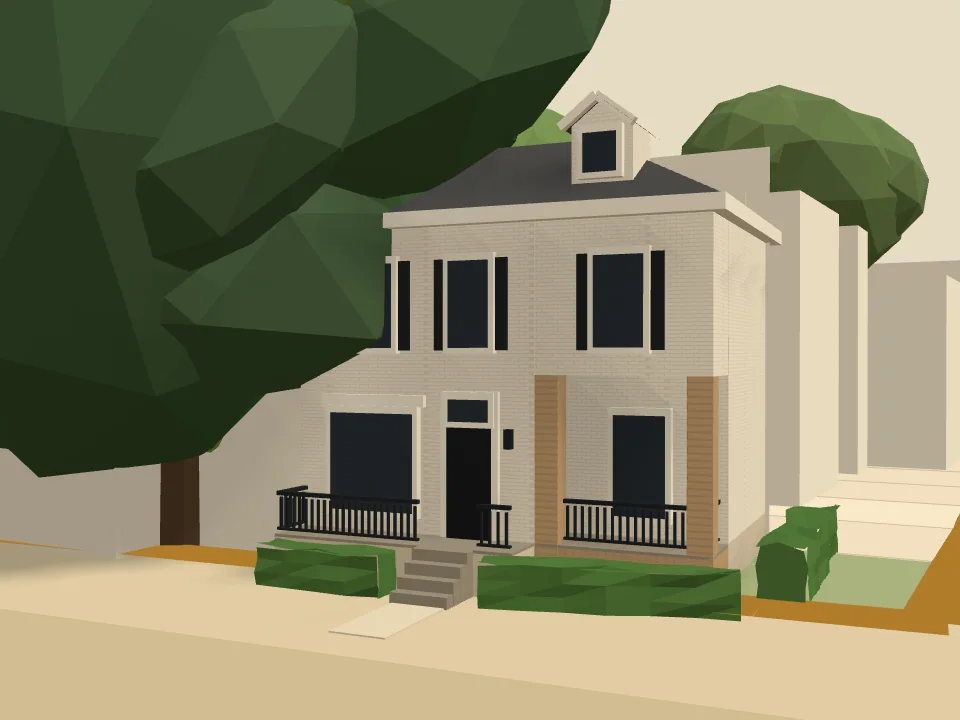
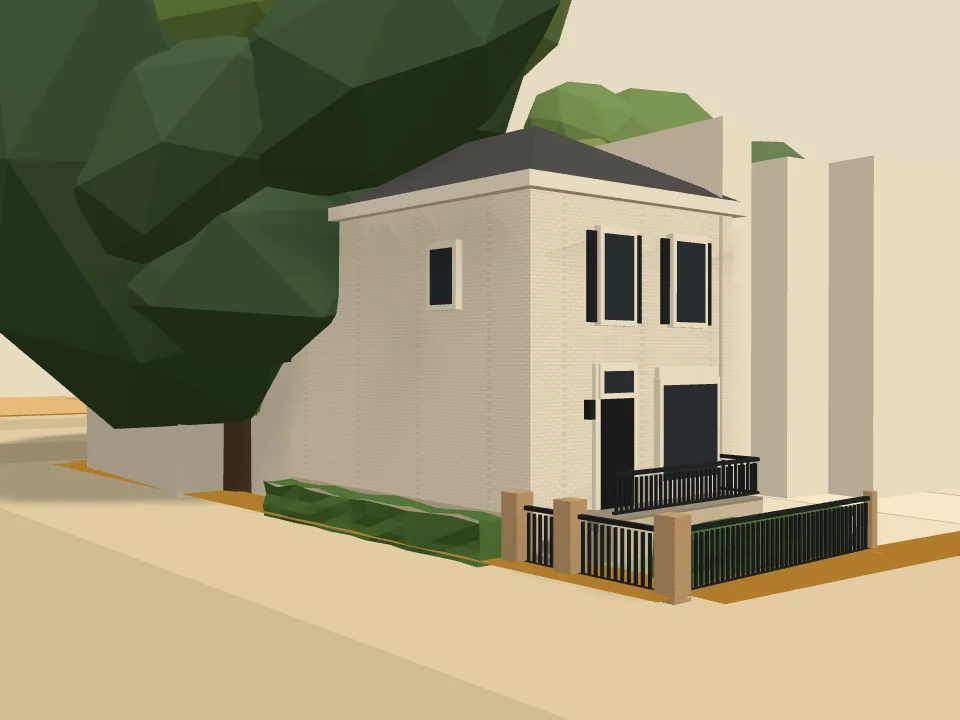
1012 Colley: the blank wall on Colley, and what it would take to open it
Jason, who knows the building: the row doesn't face Colley. 1014 on the
corner is entered from Graydon; 1012's door faces south, along Colley,
off a fenced side yard. "That entire side of the building - the valuable
street frontage - is totally blank. Not even many windows." He chose to
show the wall opened.

- Model: the side on Colley is now nearly blank (two small windows
  upstairs). The door with its transom, the wide window, the stoop and
  the shutters move to the south face, over the side yard. The yard is
  fenced along Colley and the lot line with dark railings between brick
  piers, the gate at the foot of the steps. The dormers are dropped (no
  evidence which side they're on).
- What-if: picking a use cuts a shop window and a door, with steps, into
  the Colley wall; the new door is the one that glows. The street view
  moves south to show both the blank wall and the real door.
- Page: the house paragraph says what the row faces; the section becomes
  "What it would take to face the street"; a new paragraph quotes Policy
  Brief No. 1 §IV: new windows for a commercial use still need the ARB.
  "On this house, both doors would have to open: the use table, and the
  ARB." Renders, captions, alt text and the cards elsewhere updated.

Claude-Session: https://claude.ai/code/session_01Sqvwr6hkSFEKHhWDSZxL63

diff --git a/case-studies/1012-colley.html b/case-studies/1012-colley.html
@@ -4,11 +4,11 @@
   <meta charset="UTF-8" />
   <meta name="viewport" content="width=device-width, initial-scale=1.0" />
   <title>1012 Colley Avenue — Case Study — Ghent Streets</title>
-  <meta name="description" content="The end house of a 1908 row on Colley Avenue, a street the City classes as an arterial or collector. Its front room could hold a bookshop. HC-G2's zoning prohibits it; NFK2050 points neighborhood shops toward streets like this one." />
+  <meta name="description" content="The end house of a 1908 row on Colley Avenue, a street the City classes as an arterial or collector. Its side on Colley is a nearly blank wall. NFK2050 points neighborhood shops toward streets like this one; HC-G2's zoning prohibits them." />
   <meta property="og:type" content="article" />
   <meta property="og:site_name" content="Ghent Streets" />
   <meta property="og:title" content="1012 Colley Avenue — Case Study — Ghent Streets" />
-  <meta property="og:description" content="The end house of a 1908 row on Colley Avenue. Its front room could hold a bookshop. HC-G2's zoning prohibits it; NFK2050 points neighborhood shops toward streets like this one." />
+  <meta property="og:description" content="The end house of a 1908 row on Colley Avenue. Its side on Colley is a nearly blank wall. NFK2050 points neighborhood shops toward streets like this one; HC-G2's zoning prohibits them." />
   <meta property="og:url" content="https://jason-edelman.org/ghent-streets/case-studies/1012-colley.html" />
   <meta name="twitter:card" content="summary_large_image" />
   <link rel="icon" type="image/svg+xml" href="../assets/favicon.svg" />
@@ -42,7 +42,7 @@
   <div class="container">
     <p class="hero-label">Case Study · Colley Avenue</p>
     <h1>1012 Colley Avenue</h1>
-    <p class="hero-deck">The end house of a 1908 row, on a street the City classes as an arterial or collector, one lot from the corner of Graydon Avenue. Its front room could hold a bookshop. NFK2050 points a neighborhood's shops toward streets like this one, and HC-G2's zoning prohibits them.</p>
+    <p class="hero-deck">The end house of a 1908 row, one lot from the corner of Graydon Avenue, on a street the City classes as an arterial or collector. Its side on Colley is a nearly blank wall. NFK2050 points a neighborhood's shops toward streets like this one, and HC-G2's zoning prohibits them.</p>
     <nav class="cs-switch" aria-label="Case studies">
       <span>Case studies:</span>
       <a href="715-colonial.html">715 Colonial</a>
@@ -71,21 +71,23 @@
       <dt>Zoning</dt><dd>HC-G2</dd>
       <dt>Street</dt><dd>Colley Avenue, classed arterial/collector</dd>
     </dl>
-    <p>The City's assessor has photographed 1012 Colley three times, in 2007, August 2025 and June 2026. It is painted white brick, two floors over a raised base. A stoop with dark railings runs along the front, a black door with a transom stands beside a wide window, the upstairs windows have dark shutters, and there are dormers in the roof. The City's building footprint draws it as one building with its row: 1014 Colley on the corner, and four houses on Graydon Avenue.</p>
+    <p>The City's building footprint draws 1012 as one building with its row: 1014 Colley on the corner, and four houses on Graydon Avenue. The row doesn't face Colley. 1014 is entered from Graydon, and 1012's door faces south, along Colley, off a side yard behind a fence. So the row's whole side on Colley, the frontage the plan points shops toward, is a nearly blank wall, with only a few windows.</p>
+    <p>The City's assessor has photographed 1012 three times, in 2007, August 2025 and June 2026. The house is painted white brick, two floors over a raised base. At its door there's a stoop with dark railings, a black door with a transom beside a wide window, and dark shutters on the windows upstairs.</p>
     <div class="cs-photos">
-      <figure><img src="img/1012-colley-2007.webp" width="800" height="600" loading="lazy" alt="1012 Colley Avenue in April 2007: a long white-painted row with dormers in its roof, porches with railings, a red-leaved tree and street trees in front, cars parked at the curb."><figcaption>April 2007</figcaption></figure>
-      <figure><img src="img/1012-colley-2025.webp" width="600" height="800" loading="lazy" alt="1012 Colley Avenue in August 2025, through the leaves: the black door with its transom and house number beside a wide window, a dark railing along the stoop."><figcaption>August 2025</figcaption></figure>
-      <figure><img src="img/1012-colley-2026.webp" width="800" height="600" loading="lazy" alt="1012 Colley Avenue in June 2026: the wide window, the black door and its lamp, dark railings, shuttered windows upstairs, a brick pier at the right."><figcaption>June 2026</figcaption></figure>
+      <figure><img src="img/1012-colley-2007.webp" width="800" height="600" loading="lazy" alt="The assessor's April 2007 photo for this parcel: a long white-painted row with dormers in its roof, porches with railings, a red-leaved tree and street trees in front, cars parked at the curb."><figcaption>April 2007</figcaption></figure>
+      <figure><img src="img/1012-colley-2025.webp" width="600" height="800" loading="lazy" alt="1012 Colley Avenue in August 2025, through the leaves: the black door with its transom and house number beside a wide window, a dark railing along the stoop, a brick pier at the right."><figcaption>August 2025</figcaption></figure>
+      <figure><img src="img/1012-colley-2026.webp" width="800" height="600" loading="lazy" alt="1012 Colley Avenue in June 2026: the wide window, the black door and its lamp behind dark railings, shuttered windows upstairs, a brick pier at the right."><figcaption>June 2026</figcaption></figure>
     </div>
     <p class="cs-credit">Photos: City of Norfolk Real Estate Assessor, from the <a href="https://air.norfolk.gov/#/property/16645740" target="_blank" rel="noopener">property card</a> for this parcel. We host copies with license plates blurred, as our <a href="../blog/open-letter-assessor-photos.html">open letter</a> describes. Facts from the City's FY2026 assessment on <a href="https://data.norfolk.gov/" target="_blank" rel="noopener">Norfolk Open Data</a>.</p>
 
-    <h2>What the front room could hold</h2>
-    <p>We built the house by hand for the <a href="../explorer/#p=1428615872">parcel explorer</a>, from the City's building footprint and these photos. The City draws the whole row as one footprint, so the explorer cuts out this house's share and leaves the rest of the row standing. Pick a use and the front room fills: lettering on the wide window under a canvas awning, a sign hung in the porch, lanterns at the door, a book cart or a bench on the stoop. The house itself doesn't change. The doors and windows stay where they are, as the Architectural Review Board's design guidelines ask of a house.</p>
+    <h2>What it would take to face the street</h2>
+    <p>We built the house by hand for the <a href="../explorer/#p=1428615872">parcel explorer</a>, from the City's building footprint and these photos. The City draws the whole row as one footprint, so the explorer cuts out this house's share and leaves the rest of the row standing.</p>
+    <p>A shop here would need what 715 Colonial and 740 W Princess Anne already have: a way in from the street. So when you pick a use, the explorer cuts a shop window and a door into the blank wall on Colley, with steps up to the door, then adds lettering, an awning, lanterns and a book cart or a bench. That is a change to the outside of the house, and it's drawn here to show what the rule leaves out of reach, not as a design.</p>
     <div class="cs-renders">
-      <figure class="cs-render"><img src="img/1012-colley-before.webp" width="960" height="720" loading="lazy" alt="The explorer's model of 1012 Colley Avenue from across the street: the white house with dark shutters, its stoop and railings, the porch behind brick piers, a dormer in the roof, shrubs along the front."><figcaption>As it stands, in the explorer.</figcaption></figure>
+      <figure class="cs-render"><img src="img/1012-colley-before.webp" width="960" height="720" loading="lazy" alt="The explorer's model of 1012 Colley Avenue from across the street: the side on Colley, white and nearly blank, with one small window upstairs; around the corner, the door and wide window facing south over a stoop, behind a fence of dark railings and brick piers."><figcaption>As it stands, in the explorer: the side on Colley, nearly blank.</figcaption></figure>
       <div class="pair">
-        <figure class="cs-render"><img src="img/1012-colley-books.webp" width="960" height="720" loading="lazy" alt="The same view with the front room as a bookshop: shelves in the lit windows, a striped awning, a sign hung in the porch, a book cart on the stoop, two people at the steps."><figcaption>As a bookshop: a retail goods establishment.</figcaption></figure>
-        <figure class="cs-render"><img src="img/1012-colley-studio.webp" width="960" height="720" loading="lazy" alt="The same view with the front room as a design studio: drafting tables in the lit window lettered Studio, a bench on the stoop, people arriving."><figcaption>As a design studio: an office.</figcaption></figure>
+        <figure class="cs-render"><img src="img/1012-colley-books.webp" width="960" height="720" loading="lazy" alt="The same view with a bookshop: a lit shop window full of shelves and a new door cut into the Colley wall, a striped awning, steps up to the door, a book cart and a table on the sidewalk, people arriving."><figcaption>As a bookshop, with a window and a door cut into the Colley wall.</figcaption></figure>
+        <figure class="cs-render"><img src="img/1012-colley-studio.webp" width="960" height="720" loading="lazy" alt="The same view with a design studio: drafting tables in a lit window cut into the Colley wall, an awning, a new door up a few steps, a bench, people arriving."><figcaption>As a design studio: an office, behind the same new openings.</figcaption></figure>
       </div>
     </div>
     <p><a class="cs-cta" href="../explorer/#p=1428615872&amp;t=books">Open 1012 Colley in the explorer →</a></p>
@@ -95,12 +97,13 @@
 
     <h2>The plan</h2>
     <p>NFK2050, the comprehensive plan City Council adopted on December 9, 2025, puts HC-G2 in its Sustain – Traditional place type. For that place type it lists <em>"Commercial/retail, small-scale office"</em> as a secondary land use (p. 92), and it says where secondary uses belong: <em>"The Secondary, non-residential uses envisioned for the Sustain areas are appropriate primarily along arterials and collector streets, preserving the residential character of the neighborhood interiors"</em> (p. 69).</p>
-    <p>The City's own street layer classes Colley Avenue in front of 1012 as an arterial or collector street. This is the frontage that passage describes. The plan also encourages small-scale retail <em>"at key nodes or intersections, with consistent street frontage"</em> (p. 93). 1012 isn't the corner house, but it's the next one: its neighbor in the row, 1014 Colley, stands at the corner of Colley and Graydon.</p>
+    <p>The City's own street layer classes Colley Avenue in front of 1012 as an arterial or collector street. This is the frontage that passage describes. The plan also encourages small-scale retail <em>"at key nodes or intersections, with consistent street frontage"</em> (p. 93). 1012 isn't the corner house, but it's the next one: its neighbor in the row, 1014 Colley, stands at the corner of Colley and Graydon. Neither house opens onto Colley.</p>
 
     <h2>What it would take</h2>
     <p><a href="../policy/brief-01.html">Policy Brief No. 1</a> proposes amending Table 3.6.11 to permit six small uses by right in HC-G2, under performance standards. As drafted, the amendment reaches the interior blocks too, which the plan says to keep residential. On a block like this one, the plan and the amendment agree.</p>
-    <p>This is an illustration, not a proposal for this property. We haven't spoken with the people who live here, and nothing on this page says they want a bookshop in their front room. It shows what the rule rules out, on a house the City has photographed for nineteen years.</p>
-    <!-- VERIFY (Jason): the selection of this house as a case study (the end of a row, one lot from a corner, on an arterial/collector street; its for-sale status was not confirmed and isn't claimed), the uses shown (a bookshop and a design studio), and the closing disclaimer's wording. -->
+    <p>Here the amendment alone wouldn't be enough. It would make the use legal, but a shop that faces Colley would also need new openings in the wall, and the brief keeps the Architectural Review Board's say over that: <em>"Any exterior modification associated with a new commercial use, such as signage, facade changes, or new windows, still requires a Certificate of Appropriateness from the ARB"</em> (Section IV). On this house, both doors would have to open: the use table, and the ARB.</p>
+    <p>This is an illustration, not a proposal for this property. We haven't spoken with the people who live here, and nothing on this page says they want a shop in their house. It shows what the rule rules out, on a house the City has photographed for nineteen years.</p>
+    <!-- VERIFY (Jason): the description of the entrances and the blank side on Colley is from Jason (2026-11-17), who knows the building; the photos agree but don't show the Colley side. Also: the selection of this house, the what-if (new openings cut into the Colley wall, which the ARB would review), and the disclaimer's wording. -->
 
     <hr class="rule" />
     <p style="font-family:var(--mono);font-size:0.65rem;letter-spacing:0.06em;color:rgba(var(--ink-rgb),0.5);">

diff --git a/explorer/explorer.js b/explorer/explorer.js
@@ -2827,108 +2827,116 @@ function heroView740(mode) {
   return { pos: to3(px, py, 21), target: to3(tx, ty, 7) };
 }
 
-// ── 1012 Colley Avenue (case study): the end house of a 1908 row ──
+// ── 1012 Colley Avenue (case study): the end house of a 1908 row, its back to Colley ──
 // The city's footprint is one polygon for the whole row: 1012 and 1014 Colley and 741–747 Graydon, an L
 // around the corner. The build cuts out 1012's piece (data/scripts/build_explorer.py), and this model
-// replaces only that. In its own axes (u toward Colley, v along it, + to the south) the piece's front is
-// 9.2 m on Colley (v −3.2…6.0), 6.6 m deep; behind 1014's entry bay it runs on to v −6.4. The row is 9.7 m
-// high. The assessor's photos (2007, August 2025, June 2026) show painted white brick, two floors over a
-// raised base, a raised stoop with dark railings, a black door with a transom, a wide window under a flat
-// arch, dark shutters upstairs, a cornice, dormers in the roof, and at the south end a porch behind brick
-// piers. The FY2026 record: built 1908, an attached single-family house, 2,028 sq ft, on a 1,149 sq ft lot.
+// replaces only that. In its own axes (u toward Colley, v along it, + to the south) the piece's side on
+// Colley is 9.2 m (v −3.2…6.0), 6.6 m deep; behind 1014 it runs on to v −6.4. The row is 9.7 m high.
+// The house doesn't face Colley (Jason, who knows it, 2026-11-17): 1014 on the corner is entered from
+// Graydon, and 1012's door faces south, off a fenced side yard. The row's side on Colley is a nearly blank
+// wall, with few windows. The assessor's photos (2007, August 2025, June 2026) show painted white brick,
+// and at the door a stoop with dark railings, a black door with a transom beside a wide window, dark
+// shutters upstairs, a brick pier and railing at the fence. The FY2026 record: built 1908, an attached
+// single-family house, 2,028 sq ft, on a 1,149 sq ft lot.
 const H1012 = {
   c: [-128.4, 233.26], U: [-0.916, 0.4], V: [-0.4, -0.916],
-  front: 3.4, back: -3.2, v0: -3.2, vN: -6.4, uN: 1.8, v1: 6.0,
-  baseY: 0.9, f2: 4.3, eave: 7.4, top: 9.7, stoop: 1.2, porchIn: 1.9, porchV: [2.4, 6.0],
+  front: 3.4, back: -3.2, v0: -3.2, vN: -6.4, uN: 1.8, v1: 6.0, yard: 9.8, fenceU: 3.7,
+  baseY: 0.9, f2: 4.3, eave: 7.4, top: 9.7, stoopV: 1.2,
+  // What a shop would need on Colley: a window and a door cut into the blank wall, steps up to the door.
+  shop: { win: -0.6, winW: 2.6, door: 2.0, doorW: 1.05 },
 };
 function buildHero1012(p) {
   const h = H1012;
   const M = heroMatsFor({ brick: '#f7f4ee', mortar: '#e9e4da', roof: '#4a4d51', trim: '#fbf9f4', base: '#d6cdbd' });
   const iron = new THREE.MeshLambertMaterial({ color: dk('#23272b') });
   const tan = heroMatsFor({ brick: '#c9ab86', mortar: '#b39373', roof: '#4a4d51', trim: '#f7f3ea', base: '#b39373' }).wall;
-  const dark = { white: iron };   // railRun draws in M.white; the railings here are painted dark
+  const dark = { white: iron };   // railRun draws in M.white; the railings and fence here are dark iron
   const g = heroGroup(h); g.userData.trim = M.trim; g.userData.brackets = false;
   const pick = [];
   const wall = (...a) => { const m = hbox(g, ...a, M.wall, 2.4); m.userData.gpin = p.gpin; pick.push(m); return m; };
-  const { front: uf, back: ub, v0, vN, uN, v1, baseY: y0, f2, eave: e, top, stoop: sd, porchIn: ui } = h;
-  const [pv0, pv1] = h.porchV;
-  // The house: the front block, its piece behind 1014's entry bay, and the south porch cut into the corner.
-  hbox(g, ub, uf, v0, pv0, 0, y0, M.base);
-  wall(ub, uf, v0, pv0, y0, e);
-  hbox(g, ub, ui, pv0, v1, 0, y0, M.base);
-  wall(ub, ui, pv0, v1, y0, e);
-  wall(ui, uf, pv0, v1, f2, e);                      // the second floor runs on over the porch
-  wall(ub, uN, vN, v0, 0, top);                      // behind 1014's bay, up to the row's flat roof
-  // The cornice and a low hip roof that meets the row's height, with two dormers facing Colley.
+  const { front: uf, back: ub, v0, vN, uN, v1, baseY: y0, f2, eave: e, top, yard, fenceU: fu, stoopV: sv } = h;
+  // The house, and its piece behind 1014, up to the row's flat roof.
+  hbox(g, ub, uf, v0, v1, 0, y0, M.base);
+  wall(ub, uf, v0, v1, y0, e);
+  wall(ub, uN, vN, v0, 0, top);
   hbox(g, ub - 0.2, uf + 0.28, v0 - 0.05, v1 + 0.28, e, e + 0.32, M.trim);
   hipRoof(g, ub, uf, v0, v1, e + 0.32, 0.2, 0.55, M.roof);
-  for (const v of [-1.3, 3.6]) {   // set forward on the slope so each window clears the roof
-    hbox(g, uf - 2.0, uf - 0.7, v - 0.65, v + 0.65, e + 0.3, e + 2.0, M.wall);
-    gableRoof(g, uf - 2.0, uf - 0.7, v - 0.65, v + 0.65, e + 2.0, 0.5, 0.12, M);
-    hwin(g, 'u+', uf - 0.7, v, e + 1.0, e + 1.8, 0.7, M, null);
+  // The side on Colley: a nearly blank wall, two small windows upstairs.
+  for (const v of [-1.6, 3.4]) hwin(g, 'u+', uf, v, f2 + 0.9, f2 + 2.1, 0.75, M, null);
+  // The front that faces south, onto the side yard: the wide window, the black door with its transom and
+  // a lamp, dark shutters upstairs. (hwin's 'v+' face: at = v of the wall, along = u.)
+  hwin(g, 'v+', v1, -1.4, y0 + 0.45, y0 + 2.55, 1.9, M, null);
+  hbox(g, -2.45, -0.35, v1, v1 + 0.14, y0 + 2.7, y0 + 2.95, M.trim);
+  hbox(g, 0.35, 1.65, v1, v1 + 0.12, y0, y0 + 3.05, M.trim);
+  const door = hbox(g, 0.5, 1.5, v1 + 0.1, v1 + 0.16, y0, y0 + 2.3, new THREE.MeshLambertMaterial({ color: dk('#1d2024') }));
+  hwin(g, 'v+', v1, 1.0, y0 + 2.42, y0 + 2.88, 0.9, M, null);
+  hbox(g, 1.85, 2.0, v1 + 0.12, v1 + 0.3, y0 + 1.9, y0 + 2.3, iron);
+  for (const [u, w] of [[-1.4, 1.0], [1.0, 0.9]]) {
+    hwin(g, 'v+', v1, u, f2 + 0.55, f2 + 2.35, w, M, null);
+    for (const sd of [-1, 1]) hbox(g, u + sd * (w / 2 + 0.16) - 0.22, u + sd * (w / 2 + 0.16) + 0.22, v1 + 0.02, v1 + 0.08, f2 + 0.5, f2 + 2.4, iron);
   }
-  // First floor: the wide window under its flat arch, the door with its transom and a lamp.
-  const winList = [];
-  hwin(g, 'u+', uf, -1.3, y0 + 0.45, y0 + 2.55, 2.0, M, winList);
-  hbox(g, uf, uf + 0.14, -2.55, -0.05, y0 + 2.7, y0 + 2.95, M.trim);
-  hbox(g, uf, uf + 0.12, 0.35, 1.65, y0, y0 + 3.05, M.trim);
-  const door = hbox(g, uf + 0.1, uf + 0.16, 0.5, 1.5, y0, y0 + 2.3, new THREE.MeshLambertMaterial({ color: dk('#1d2024') }));
-  hwin(g, 'u+', uf, 1.0, y0 + 2.42, y0 + 2.88, 0.9, M, null);   // the transom
-  hbox(g, uf + 0.12, uf + 0.3, 1.85, 2.0, y0 + 1.9, y0 + 2.3, iron);
-  // Second floor: three windows with dark shutters.
-  for (const [v, w] of [[-1.3, 1.0], [1.0, 0.9], [4.2, 1.0]]) {
-    hwin(g, 'u+', uf, v, f2 + 0.55, f2 + 2.35, w, M, null);
-    for (const s of [-1, 1]) hbox(g, uf + 0.02, uf + 0.08, v + s * (w / 2 + 0.16) - 0.22, v + s * (w / 2 + 0.16) + 0.22, f2 + 0.5, f2 + 2.4, iron);
-  }
-  // The stoop across the front, dark railings, steps down to the walk at the door.
-  hbox(g, uf, uf + sd, v0 + 0.15, pv0, 0, y0 - 0.06, M.base);
-  hbox(g, uf, uf + sd, v0 + 0.15, pv0, y0 - 0.06, y0, M.deck);
-  railRun(g, uf + sd - 0.08, v0 + 0.2, uf + sd - 0.08, 0.35, y0, dark, 0.9);
-  railRun(g, uf + sd - 0.08, 1.65, uf + sd - 0.08, pv0 - 0.05, y0, dark, 0.9);
-  railRun(g, uf + 0.1, v0 + 0.2, uf + sd - 0.08, v0 + 0.2, y0, dark, 0.9);
+  // The stoop along that front, dark railings, steps down toward Colley to the gate in the fence.
+  hbox(g, -2.7, 2.3, v1, v1 + sv, 0, y0 - 0.06, M.base);
+  hbox(g, -2.7, 2.3, v1, v1 + sv, y0 - 0.06, y0, M.deck);
+  railRun(g, -2.6, v1 + sv - 0.08, 2.2, v1 + sv - 0.08, y0, dark, 0.9);
+  railRun(g, -2.6, v1 + 0.1, -2.6, v1 + sv - 0.08, y0, dark, 0.9);
   const nSteps = 4, rise = y0 / nSteps;
-  for (let i = 1; i <= nSteps; i++) hbox(g, uf + sd, uf + sd + (nSteps - i + 1) * 0.3, 0.4, 1.6, 0, i * rise, M.deck);
-  // The south porch: brick piers at its corners, a floor on a brick base, dark railings, a window at its back.
-  hbox(g, ui, uf, pv0, v1, 0, y0 - 0.06, tan);
-  hbox(g, ui, uf, pv0, v1, y0 - 0.06, y0, M.deck);
-  for (const v of [pv0 + 0.25, v1 - 0.25]) hbox(g, uf - 0.5, uf, v - 0.25, v + 0.25, 0, f2, tan);
-  railRun(g, uf - 0.25, pv0 + 0.55, uf - 0.25, v1 - 0.55, y0, dark, 0.9);
-  railRun(g, ui + 0.1, v1 - 0.2, uf - 0.55, v1 - 0.2, y0, dark, 0.9);
-  hwin(g, 'u+', ui, 4.2, y0 + 0.45, y0 + 2.55, 1.1, M, winList);
-  // Plantings along the stoop and in the side yard, the walk to the steps.
+  for (let i = 1; i <= nSteps; i++) hbox(g, 2.3, 2.3 + (nSteps - i + 1) * 0.3, v1 + 0.1, v1 + 1.1, 0, i * rise, M.deck);
+  // The fenced yard: dark railings between brick piers along Colley and the lot's south line, the gate at
+  // the foot of the steps.
+  for (const v of [v1 - 0.05, v1 + 1.4, yard]) hbox(g, fu - 0.22, fu + 0.22, v - 0.22, v + 0.22, 0, 1.45, tan);
+  railRun(g, fu, v1 + 0.2, fu, v1 + 1.15, 0, dark, 1.2);           // the gate
+  railRun(g, fu, v1 + 1.65, fu, yard - 0.25, 0, dark, 1.2);
+  railRun(g, ub + 0.6, yard, fu - 0.25, yard, 0, dark, 1.2);
+  hbox(g, ub + 0.4, ub + 0.6, yard - 0.1, yard + 0.1, 0, 1.3, tan);
+  // Plantings along the blank wall and in the yard.
   const rng = rngFor('1012-hero');
-  hedgeRun(g, uf + sd + 0.55, v0 + 0.3, uf + sd + 0.55, 0.0, M, rng, 0.8, 0.7);
-  hedgeRun(g, uf + sd + 0.55, 2.0, uf + 0.6, v1 + 0.6, M, rng, 0.8, 0.7);
-  hedgeRun(g, uf - 0.4, v1 + 1.2, ub + 0.4, v1 + 1.2, M, rng, 1.1, 0.9);
-  hbox(g, uf + sd + 1.2, uf + sd + 3.4, 0.45, 1.55, 0, 0.03, M.path);
-  return { group: g, pick, winList, door, mats: M };
+  hedgeRun(g, uf + 0.6, v0 + 0.3, uf + 0.6, v1 - 0.4, M, rng, 0.85, 0.7);
+  hedgeRun(g, ub + 0.9, yard - 0.6, fu - 0.7, yard - 0.6, M, rng, 0.9, 0.8);
+  return { group: g, pick, winList: [], door, mats: M };
 }
 function heroTransform1012(kit, p) {
-  const h = H1012, uf = h.front, y0 = h.baseY, f2 = h.f2, sd = h.stoop;
-  const [pv0, pv1] = h.porchV;
-  return caseTransform(kit, p, {
+  const h = H1012, uf = h.front, y0 = h.baseY, S = h.shop, M = p.hero.mats;
+  // The openings a shop on Colley would need, cut into the blank wall, with steps up to the new door.
+  // They arrive with the shop; the house's own south door keeps its place.
+  const cut = new THREE.Group();
+  hwin(cut, 'u+', uf, S.win, y0 + 0.3, y0 + 2.6, S.winW, M, []);    // shop glass: it lights with the kit
+  hbox(cut, uf, uf + 0.14, S.win - S.winW / 2 - 0.25, S.win + S.winW / 2 + 0.25, y0 + 2.75, y0 + 3.0, M.trim);
+  hbox(cut, uf, uf + 0.12, S.door - S.doorW / 2 - 0.15, S.door + S.doorW / 2 + 0.15, y0, y0 + 3.0, M.trim);
+  const newDoor = hbox(cut, uf + 0.1, uf + 0.16, S.door - S.doorW / 2, S.door + S.doorW / 2, y0, y0 + 2.35, new THREE.MeshLambertMaterial({ color: dk('#1d2024') }));
+  hwin(cut, 'u+', uf, S.door, y0 + 2.47, y0 + 2.88, S.doorW - 0.1, M, []);
+  const nSteps = 4, rise = y0 / nSteps;
+  hbox(cut, uf, uf + 1.1, S.door - 0.75, S.door + 0.75, 0, y0, M.base);
+  for (let i = 1; i <= nSteps; i++) hbox(cut, uf + 1.1, uf + 1.1 + (nSteps - i + 1) * 0.3, S.door - 0.6, S.door + 0.6, 0, i * rise, M.deck);
+  cut.visible = false;
+  const homeDoor = p.hero.door;
+  p.hero.door = newDoor;   // the shop's door is the one that glows
+  const built = caseTransform(kit, p, {
     h,
-    letters: [[uf + 0.3, -1.3, y0 + 1.5, 1.2]],
-    sign: { u: uf - 0.25, v: (pv0 + pv1) / 2, y: f2 },
-    awnings: [[uf + 0.05, -1.3, y0 + 3.05, 2.3]],
-    lanterns: [[uf + 0.25, 0.25, y0 + 2.0], [uf + 0.25, 1.75, y0 + 2.0]],
-    light: [uf + 1.0, 0, y0 + 2.2],
-    tables: [[uf + 0.62, -2.35, y0], [h.porchIn + 0.75, 4.4, y0]],
-    cart: [uf + 0.62, -1.4, y0],
-    benches: [[uf + 0.62, -1.3, y0]],
-    board: [uf + sd + 2.6, 2.3],
-    bulbs: [[uf - 0.25, pv0 + 0.5, uf - 0.25, pv1 + 0.2, f2 - 0.2]],
-    greeter: [uf + 0.6, 1.0, y0],
-    walkers: [[8.2, -16, uf + sd + 2.4, 0.9], [8.6, 15, uf + sd + 2.6, 1.3]],
+    letters: [[uf + 0.3, S.win, y0 + 1.45, 1.3]],
+    awnings: [[uf + 0.05, S.win, y0 + 3.15, S.winW + 0.4]],
+    lanterns: [[uf + 0.25, S.door - 0.75, y0 + 2.0], [uf + 0.25, S.door + 0.75, y0 + 2.0]],
+    light: [uf + 1.0, S.win, y0 + 2.2],
+    tables: [[uf + 1.3, -2.4, 0], [uf + 1.3, 0.4, 0]],
+    cart: [uf + 1.0, S.win, 0],
+    benches: [[uf + 1.1, S.win, 0]],
+    board: [uf + 3.0, 3.6],
+    greeter: [uf + 0.75, S.door, y0],
+    walkers: [[8.2, -16, uf + 2.9, S.door - 0.4], [8.6, 15, uf + 3.1, S.door + 0.5]],
   });
+  built.root.add(cut);
+  built.tweens.unshift({ t0: 0, t1: 0.04, fn: (k) => { cut.visible = k > 0; } });
+  const clean = built.cleanup;
+  built.cleanup = () => { clean(); p.hero.door = homeDoor; };
+  return built;
 }
 function heroView1012(mode) {
   const h = H1012;
-  // From the south-west, across Colley: the house, its stoop and porch, with the stand of trees at the
-  // corner beyond it rather than in front.
-  if (mode === 'street') { const [px, py] = huv(h, 23, 10), [tx, ty] = huv(h, 3.4, 1.2); return { pos: to3(px, py, 2.3), target: to3(tx, ty, 4.6) }; }
-  const [px, py] = huv(h, 27, 15), [tx, ty] = huv(h, 1, 1);
-  return { pos: to3(px, py, 14), target: to3(tx, ty, 5) };
+  // From the south-west, across Colley: the blank side on Colley and, beyond the fence, the door that faces
+  // south, with the stand of trees at the corner behind the house rather than in front of it.
+  if (mode === 'street') { const [px, py] = huv(h, 17.5, 21), [tx, ty] = huv(h, 1.8, 2.6); return { pos: to3(px, py, 2.4), target: to3(tx, ty, 4.0) }; }
+  const [px, py] = huv(h, 22, 24), [tx, ty] = huv(h, 0.5, 2.5);
+  return { pos: to3(px, py, 14), target: to3(tx, ty, 4.5) };
 }
 
 // The buildings drawn by hand, by GPIN: 801 Stockley Gardens and the case studies, which also get a page.

diff --git a/index.html b/index.html
@@ -120,10 +120,10 @@
         <p>A 1919 apartment building with porches stacked four high, and a shop on its first floor under the apartments.</p>
       </a>
       <a class="card" href="case-studies/1012-colley.html">
-        <img class="card-img" src="case-studies/img/1012-colley-books.webp" width="960" height="720" loading="lazy" alt="The explorer's model of 1012 Colley Avenue with a bookshop in its front room under a striped awning.">
+        <img class="card-img" src="case-studies/img/1012-colley-books.webp" width="960" height="720" loading="lazy" alt="The explorer's model of 1012 Colley Avenue with a bookshop window and door cut into its blank side on Colley.">
         <p class="card-tag">Case Study · Colley Avenue</p>
         <h3>1012 Colley Avenue</h3>
-        <p>The end house of a 1908 row on Colley Avenue, whose front room could hold a bookshop.</p>
+        <p>The end house of a 1908 row, whose side on Colley, where the plan points shops, is a nearly blank wall.</p>
       </a>
     </div>
     <p class="case-jump">Open one in 3D: <a href="explorer/#p=1428706223&amp;t=bistro">715 Colonial</a> · <a href="explorer/#p=1428629200&amp;t=coffee">740 W Princess Anne</a> · <a href="explorer/#p=1428615872&amp;t=books">1012 Colley</a> · <a href="case-studies/">all case studies →</a></p>

diff --git a/case-studies/index.html b/case-studies/index.html
@@ -62,10 +62,10 @@
         <p>A 1919 apartment building with porches stacked four high, and a shop on its first floor under the apartments.</p>
       </a>
       <a class="card" href="1012-colley.html">
-        <img class="card-img" src="img/1012-colley-books.webp" width="960" height="720" loading="lazy" alt="The explorer's model of 1012 Colley Avenue with a bookshop in its front room under a striped awning.">
+        <img class="card-img" src="img/1012-colley-books.webp" width="960" height="720" loading="lazy" alt="The explorer's model of 1012 Colley Avenue with a bookshop window and door cut into its blank side on Colley.">
         <p class="card-tag">Case Study · Colley Avenue</p>
         <h3>1012 Colley Avenue</h3>
-        <p>The end house of a row, whose front room could hold a bookshop. Built 1908: 2,028 sq ft of living space on a 1,149 sq ft lot.</p>
+        <p>The end house of a row, whose side on Colley is a nearly blank wall. Built 1908: 2,028 sq ft of living space on a 1,149 sq ft lot.</p>
       </a>
     </div>
     <p style="font-size:0.9rem;color:rgba(var(--ink-rgb),0.7);">These are illustrations, not proposals for these properties. The photos are the City of Norfolk Real Estate Assessor's; the facts are from the City's FY2026 assessment.</p>

diff --git a/case-studies/715-colonial.html b/case-studies/715-colonial.html
@@ -121,7 +121,7 @@
       <a class="card" href="1012-colley.html">
         <p class="card-tag">Case Study</p>
         <h3>1012 Colley Avenue</h3>
-        <p>The end house of a 1908 row, whose front room could hold a bookshop.</p>
+        <p>The end house of a 1908 row, with its back to Colley Avenue.</p>
       </a>
       <a class="card" href="../explorer/">
         <p class="card-tag">Explorer</p>

diff --git a/case-studies/740-w-princess-anne.html b/case-studies/740-w-princess-anne.html
@@ -119,7 +119,7 @@
       <a class="card" href="1012-colley.html">
         <p class="card-tag">Case Study</p>
         <h3>1012 Colley Avenue</h3>
-        <p>The end house of a 1908 row, whose front room could hold a bookshop.</p>
+        <p>The end house of a 1908 row, with its back to Colley Avenue.</p>
       </a>
       <a class="card" href="../explorer/">
         <p class="card-tag">Explorer</p>
